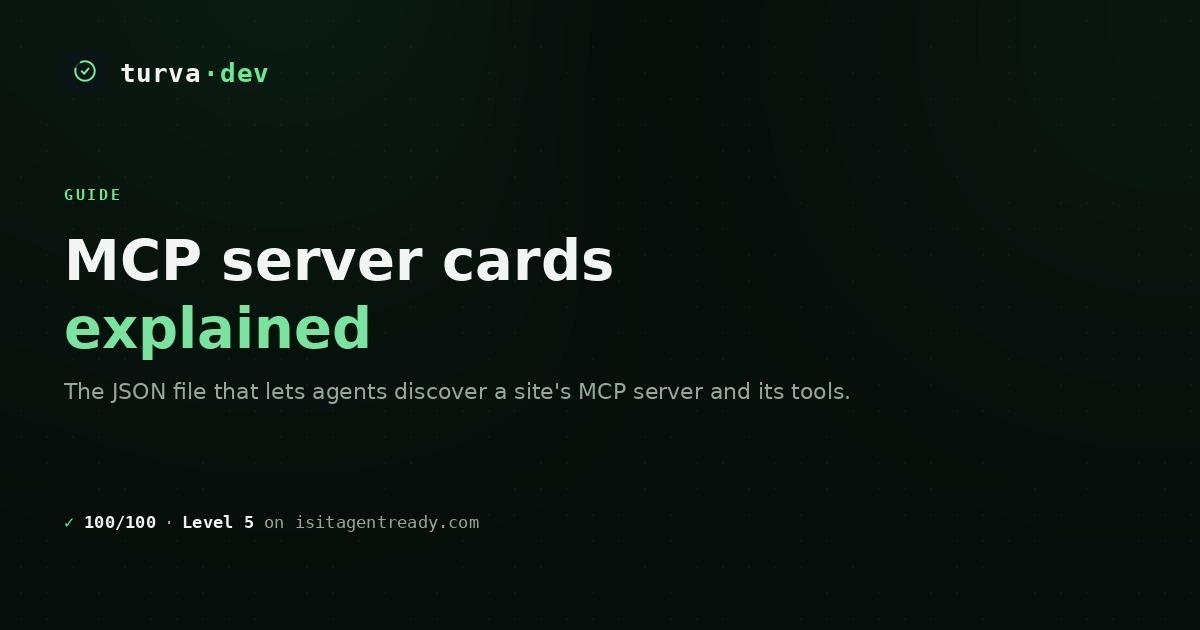
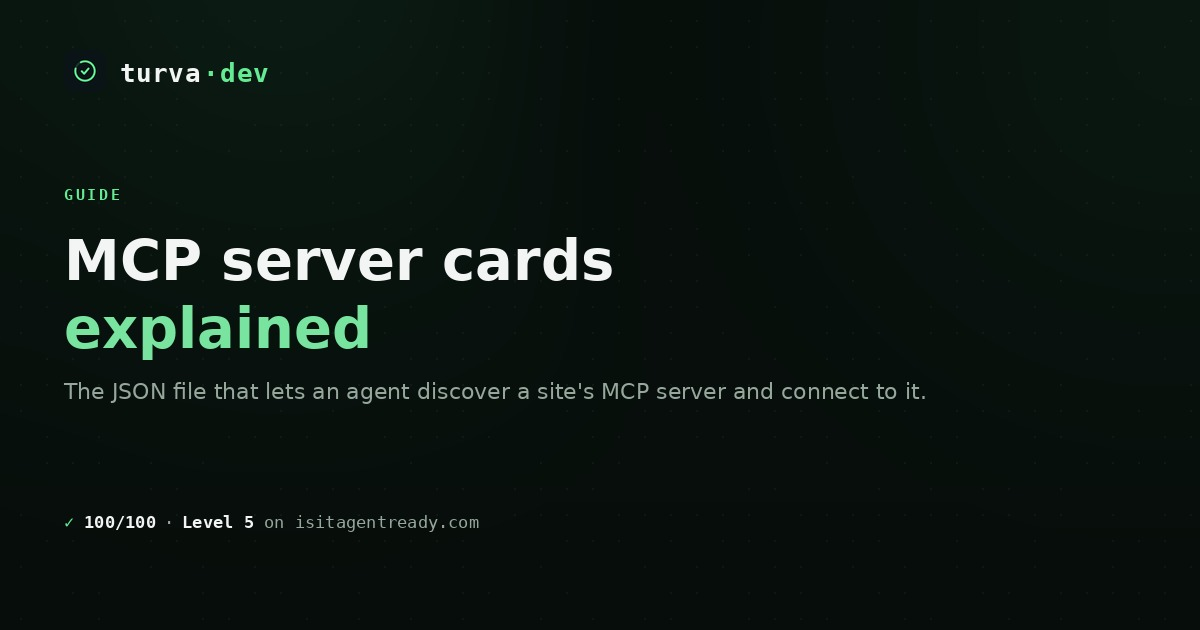
v3.105.3: MCP server card guide follows the current SEP-2127 draft, OKF guide moves to v0.2, page meta and OG card drop the tool claim

Changed region(s): [[0.2775, 0.6032, 0.7708, 0.6333]]

diff --git a/turva-worker/src/worker.js b/turva-worker/src/worker.js
@@ -1,5 +1,5 @@
 // src/worker.js
-// turva.dev worker v3.105.2 - Homepage services list still said the audit takes two to three weeks. Tek-257 changed it to two weeks on 2026-08-21, and that line carries no price, so the price sweep did not reach it.
+// turva.dev worker v3.105.3 - The MCP server card guide still named /.well-known/mcp/catalog.json and promised the card lists the tools, and the OKF guide still said version 0.1. The same tool claim also sat in the page META and in the OG card's pixels, where no text gate reads.
 
 const INDEXNOW_KEY = "9b7e4c21a8f3d65e0c1b9a4d7f2e8c63";
 
@@ -2506,19 +2506,19 @@ Terms last updated: 2026-08-11.
 
   "/guides/open-knowledge-format": `# Open Knowledge Format (OKF) explained
 
-The Open Knowledge Format is an open specification from Google Cloud that represents a body of knowledge as a directory of plain markdown files. Each concept file carries a small block of YAML frontmatter and a free-form body. The goal is a portable way to hand an AI agent the context it needs, readable by a person and parseable by a machine, with no SDK and no catalog to lock into. Google Cloud published it in June 2026 as version 0.1.
+The Open Knowledge Format is an open specification from Google Cloud that represents a body of knowledge as a directory of plain markdown files. Each concept file carries a small block of YAML frontmatter and a free-form body. The goal is a portable way to hand an AI agent the context it needs, readable by a person and parseable by a machine, with no SDK and no catalog to lock into. Google Cloud published version 0.1 in June 2026 and version 0.2 in July 2026.
 
 ## What an OKF bundle contains
 
 A bundle is a folder of markdown files, and the unit inside it is a concept. A concept is anything worth capturing for an agent: a table, a dataset, a metric, a runbook, an API. Every concept is one UTF-8 markdown document with two parts. A YAML frontmatter block at the top, fenced by a line of three dashes above and below, and a markdown body underneath.
 
-The format asks for exactly one field, type. Everything else is optional, including title, description, resource, tags and a timestamp. What types exist and what fields each carries is left to whoever produces the bundle. Concepts reference each other with ordinary markdown links, so the folder becomes a graph of related knowledge rather than a flat list of files.
+The format asks for exactly one field, type. Everything else is optional, including title, description, resource, tags and a generated block that records who last changed the concept and when. What types exist and what fields each carries is left to whoever produces the bundle. Concepts reference each other with ordinary markdown links, so the folder becomes a graph of related knowledge rather than a flat list of files.
 
 ## Structural interoperability, not yet semantic
 
-Version 0.1 fixes a small set of things and leaves the rest open. It fixes the shape of a bundle as a folder of markdown files, the YAML frontmatter, two reserved filenames and the single required field. That is structural interoperability: any tool can open a bundle and know where the pieces are.
+Version 0.2 fixes a small set of things and leaves the rest open. It fixes the shape of a bundle as a folder of markdown files, the YAML frontmatter, two reserved filenames and the single required field, all carried forward from version 0.1 unchanged. That is structural interoperability: any tool can open a bundle and know where the pieces are. Version 0.2 also added optional provenance and trust keys, among them sources, generated, verified, status and stale_after, and it retired two version 0.1 surfaces, since the concept timestamp became generated.at and the body Citations list became sources in the frontmatter.
 
-What it does not fix is meaning. The format does not say what a metric concept must contain, or how two producers should agree on the same field names. That is semantic interoperability, and version 0.1 leaves it to producers and to conventions that have not been written yet. This is the line to keep in mind when reading the announcements around OKF. It standardizes the shape of the files, not yet what the files mean.
+What it does not fix is meaning. The format does not say what a metric concept must contain, or how two producers should agree on the same field names. That is semantic interoperability, and version 0.2 leaves it to producers and to conventions that have not been written yet. This is the line to keep in mind when reading the announcements around OKF. It standardizes the shape of the files, not yet what the files mean.
 
 ## Where OKF fits with agent-readiness
 
@@ -2528,7 +2528,7 @@ So OKF is not a replacement for an llms.txt or a markdown surface on your site. 
 
 ## What to do with it today
 
-OKF is new and small, version 0.1, and the semantic half is still open. That makes it worth understanding now and worth watching, but early to build an entire knowledge catalog on. If you already serve markdown to agents and keep an llms.txt, you have the instinct OKF formalizes, and adopting it later will be a short step rather than a rebuild.
+OKF is new and small, version 0.2 since July 2026, and the semantic half is still open. That makes it worth understanding now and worth watching, but early to build an entire knowledge catalog on. If you already serve markdown to agents and keep an llms.txt, you have the instinct OKF formalizes, and adopting it later will be a short step rather than a rebuild.
 
 For an audit of how legibly AI agents can read your site and the data behind it, contact info@turva.dev.
 
@@ -2536,11 +2536,11 @@ For an audit of how legibly AI agents can read your site and the data behind it,
 
 **What is the Open Knowledge Format?**
 
-An open specification from Google Cloud that represents a body of knowledge as a directory of plain markdown files. Each concept is one UTF-8 document with a YAML frontmatter block and a body. Google Cloud published it in June 2026 as version 0.1.
+An open specification from Google Cloud that represents a body of knowledge as a directory of plain markdown files. Each concept is one UTF-8 document with a YAML frontmatter block and a body. Google Cloud published version 0.1 in June 2026 and version 0.2 in July 2026.
 
 **What does OKF actually standardize?**
 
-The shape of the files, not yet their meaning. Version 0.1 fixes the folder of markdown files, the frontmatter, two reserved filenames and one required field. What a concept must contain is left to producers.
+The shape of the files, not yet their meaning. Version 0.2 fixes the folder of markdown files, the frontmatter, two reserved filenames and one required field. What a concept must contain is left to producers.
 
 **Does OKF replace llms.txt?**
 
@@ -2613,7 +2613,7 @@ A model cites content it can read cleanly and corroborate. That means machine-re
 
 **What is an MCP server card?**
 
-An MCP server card is a JSON file, usually at /.well-known/mcp/server-card.json, that lets an agent discover a site's Model Context Protocol server and the tools it exposes, so the agent can call them without a human wiring up the connection.
+An MCP server card is a JSON file that lets an agent discover a site's Model Context Protocol server, its endpoint and its transport, so the agent can connect without a human wiring up the connection. Deployed cards commonly sit at /.well-known/mcp/server-card.json.
 
 **Is agent-readiness the same as SEO?**
 
@@ -2701,7 +2701,7 @@ The site name and a short summary, then the key pages and resources as markdown 
 
   "/guides/mcp-server-card": `# MCP server cards explained
 
-An MCP server card is a small JSON file that describes a site's Model Context Protocol server so an agent can find it and learn what it offers. It usually lives at /.well-known/mcp/server-card.json, though the path is not yet standardized. SEP-2127, the open proposal behind the card, now develops it as an experimental MCP extension. As of July 2026 its draft recommends serving the card at the MCP endpoint URL followed by /server-card, with a site-level catalog at /.well-known/mcp/catalog.json, so the convention may still move. An agent reads the card, finds the endpoint, and can then connect without a human wiring up the connection first.
+An MCP server card is a small JSON file that describes a site's Model Context Protocol server so an agent can find it and learn what it offers. Deployed cards, turva.dev's among them, commonly sit at /.well-known/mcp/server-card.json. SEP-2127, the open proposal behind the card, now develops it as an experimental MCP extension. As of August 2026 its draft reserves a different default, the MCP endpoint URL followed by /server-card, and it does not recommend a /.well-known path for the card itself. Site-level discovery sits in the Agentic Resource Discovery catalog at /.well-known/ai-catalog.json instead, so the convention is still moving. An agent reads the card, finds the endpoint, and can then connect without a human wiring up the connection first.
 
 The Model Context Protocol is a standard way for agents to use external tools and data. A server implements the protocol and exposes a set of tools, and the card is how that server announces itself. Without a card or a registry listing, an agent has no reliable way to discover that the server exists or what it can do, so the capability stays hidden even when it is live.
 
@@ -2715,7 +2715,7 @@ For sites that want to expose a capability to agents, the card is the cheapest h
 
 **What is an MCP server card?**
 
-An MCP server card is a small JSON file, usually at /.well-known/mcp/server-card.json, that describes a site's Model Context Protocol server so an agent can find it, learn which tools it exposes, and call them without a human wiring up the connection.
+An MCP server card is a small JSON file that describes a site's Model Context Protocol server, its endpoint and its transport, so an agent can connect without a human wiring up the connection. The current draft leaves the tool list to the live connection rather than to the card.
 
 **Why publish an MCP server card?**
 
@@ -2723,7 +2723,7 @@ Without a card or a registry listing an agent has no reliable way to discover th
 
 **Where does an MCP server card live?**
 
-Usually at /.well-known/mcp/server-card.json. An agent fetches that predictable path, reads which tools the server exposes, and calls them without a human wiring up the connection.
+Deployed cards commonly sit at /.well-known/mcp/server-card.json, and turva.dev serves one there. The current draft reserves a different default, the MCP endpoint URL followed by /server-card, so an agent may have to try both until the convention settles.
 
 ## Related
 
@@ -3274,7 +3274,7 @@ An agent needs three things in machine-readable form. It needs to find the offer
 
 ## The protocols in play
 
-Checkout is becoming a protocol rather than a page. Stripe and OpenAI shipped Instant Checkout inside ChatGPT in 2025. Google and Shopify introduced the Universal Commerce Protocol in early 2026, and it now carries its own discovery manifest at /.well-known/ucp. The discovery layer is settling on a small set of standards. An A2A Agent Card describes the interface, AP2 authorizes agent payments, ACP carries the checkout, and x402 lets an agent meet a price with HTTP 402 and continue. A site does not need all of them, but it needs the ones its buyers' agents speak, declared where an agent looks.
+Checkout is becoming a protocol rather than a page. OpenAI documents the Agentic Commerce Protocol as the connective layer between merchants and shoppers in ChatGPT. Google and Shopify introduced the Universal Commerce Protocol in early 2026, and it now carries its own discovery manifest at /.well-known/ucp. The discovery layer is settling on a small set of standards. An A2A Agent Card describes the interface, AP2 authorizes agent payments, ACP carries the checkout, and x402 lets an agent meet a price with HTTP 402 and continue. A site does not need all of them, but it needs the ones its buyers' agents speak, declared where an agent looks.
 
 ## Where the protocol draws the line
 
@@ -3598,7 +3598,7 @@ var OPENAPI_SPEC = JSON.stringify({
   "openapi": "3.1.0",
   "info": {
     "title": "turva.dev Agent API",
-    "version": "3.105.2",
+    "version": "3.105.3",
     "description": "Read-only metadata + payable endpoints for AI agents. MPP + x402 + ACP enabled on /api/agent/* routes.",
     "contact": { "name": "Erik Rekola", "email": "info@turva.dev", "url": "https://turva.dev/" },
     "license": { "name": "Proprietary", "url": "https://turva.dev/legal" }
@@ -3842,7 +3842,7 @@ var A2A_AGENT_CARD = JSON.stringify({
   "description": "Public read-only agent interface for turva.dev, an independent agent-readiness audit and advisory business operated by Erik Rekola. Exposes the service catalog with prices, contact channels, and company information over HTTP+JSON. No authentication and no write operations.",
   "url": "https://turva.dev",
   "preferredTransport": "HTTP+JSON",
-  "version": "3.105.2",
+  "version": "3.105.3",
   "provider": {
     "organization": "turva.dev",
     "url": "https://turva.dev/"
@@ -4357,7 +4357,7 @@ var WEBMCP_SCRIPT = `<script>
 })();
 <\/script>`;
 
-var SITEMAP_LASTMOD = "2026-08-21";
+var SITEMAP_LASTMOD = "2026-08-22";
 var SITEMAP_ENTRIES = [
   ["/", "weekly", "1.0"],
   ["/services", "monthly", "0.9"],
@@ -4765,9 +4765,9 @@ var META_BY_PATH = {
   },
   "/guides/mcp-server-card": {
     title: "MCP server cards explained | turva.dev",
-    description: "An MCP server card is a JSON file that lets agents discover a site's Model Context Protocol server and the tools it exposes. What it is and why it matters.",
+    description: "An MCP server card is a JSON file that lets agents discover a site's Model Context Protocol server and connect to it. What it is and why it matters.",
     image: "/og-guide-mcp-server-card.jpg",
-    imageAlt: "turva.dev guide card: An MCP server card is a JSON file that lets agents discover a site's Model Context Protocol server and the tools it exposes."
+    imageAlt: "turva.dev guide card: An MCP server card is a JSON file that lets agents discover a site's Model Context Protocol server and connect to it."
   },
   "/guides/agents-json": {
     title: "What agents.json is | turva.dev",
